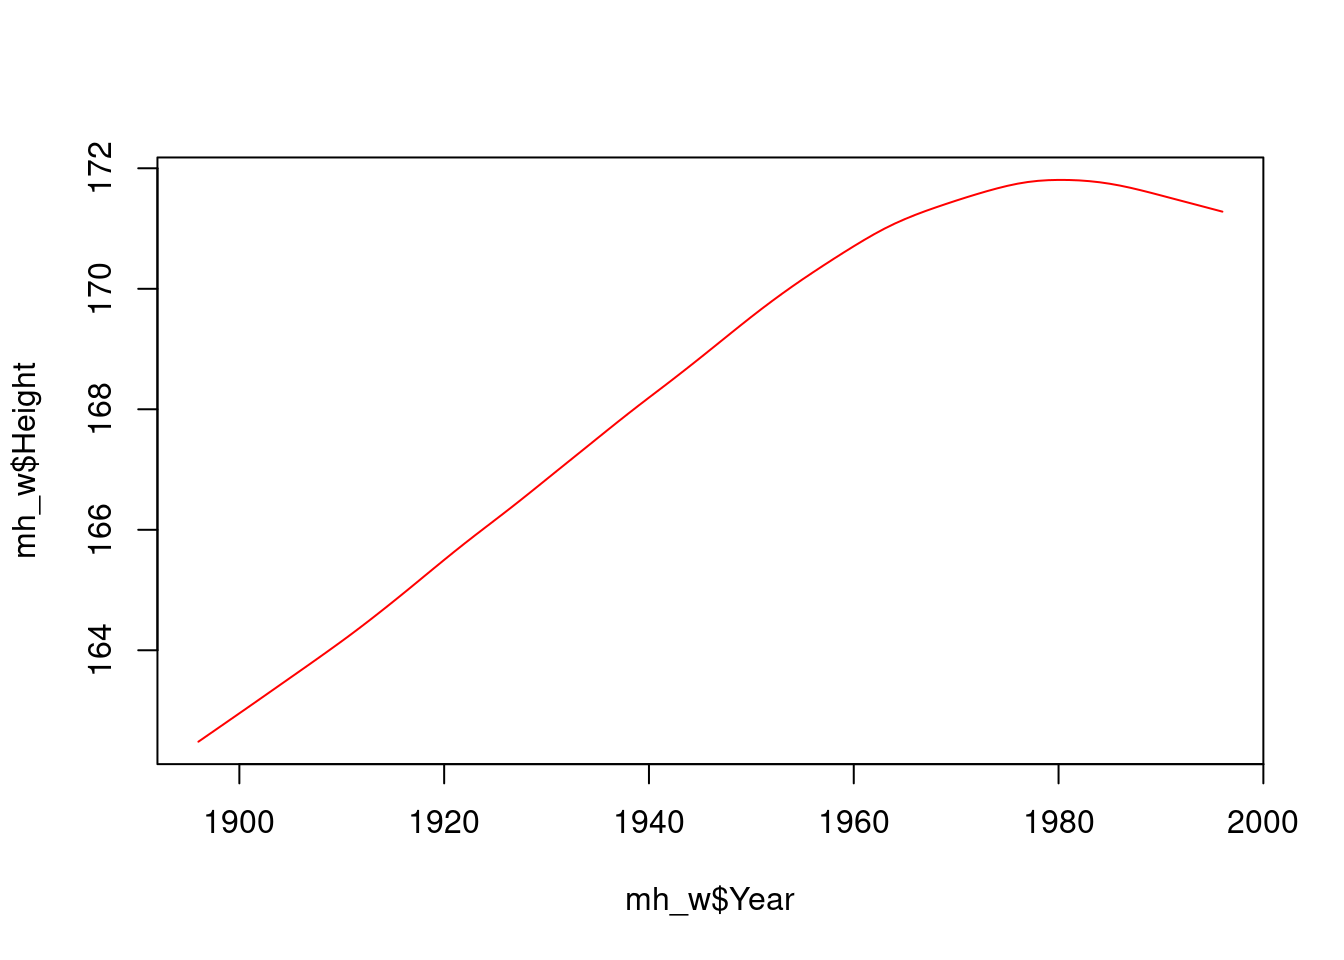
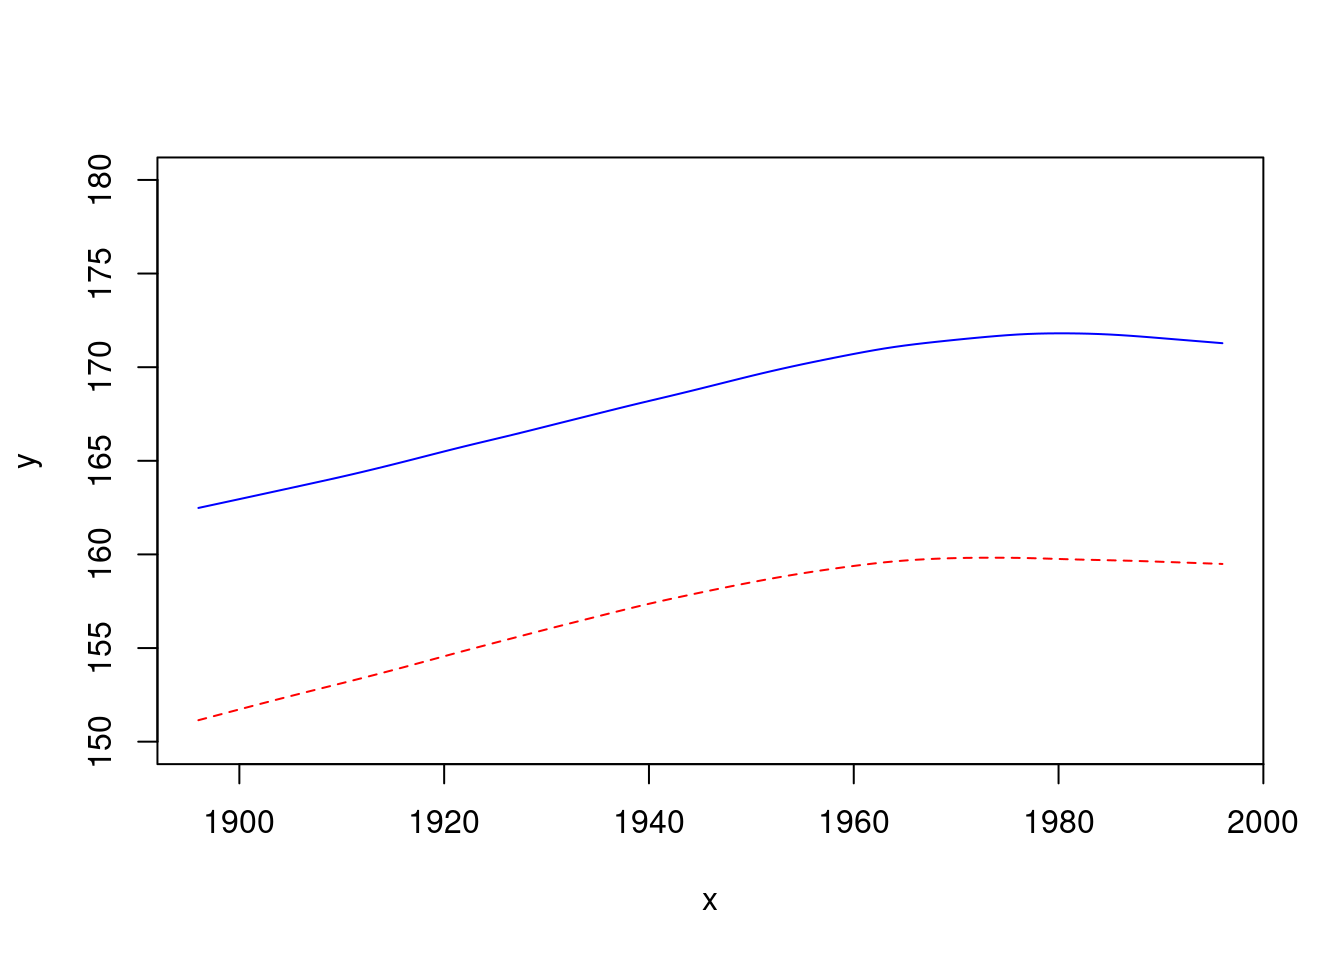
last figure fixed

diff --git a/_book/summarizing_and_communicating_lots_of_data.html b/_book/summarizing_and_communicating_lots_of_data.html
@@ -1955,8 +1955,16 @@ $Female
 <span id="cb161-4"><a href="#cb161-4" aria-hidden="true" tabindex="-1"></a>mh_w <span class="ot">&lt;-</span> height_men[height_men<span class="sc">$</span>Entity <span class="sc">==</span> <span class="st">"World"</span>, ]</span>
 <span id="cb161-5"><a href="#cb161-5" aria-hidden="true" tabindex="-1"></a>fh_w <span class="ot">&lt;-</span> height_women[height_women<span class="sc">$</span>Entity <span class="sc">==</span> <span class="st">"World"</span>, ]</span>
 <span id="cb161-6"><a href="#cb161-6" aria-hidden="true" tabindex="-1"></a></span>
-<span id="cb161-7"><a href="#cb161-7" aria-hidden="true" tabindex="-1"></a><span class="fu">plot</span>(mh_w<span class="sc">$</span>Year,  mh_w<span class="sc">$</span>Height, <span class="at">type =</span> <span class="st">"l"</span>, <span class="at">col =</span> <span class="st">"red"</span>, <span class="at">lty =</span> <span class="dv">1</span>)</span>
-<span id="cb161-8"><a href="#cb161-8" aria-hidden="true" tabindex="-1"></a><span class="fu">lines</span>(mh_w<span class="sc">$</span>Year, fh_w<span class="sc">$</span>Height, <span class="at">type =</span> <span class="st">"l"</span>,  <span class="at">col =</span> <span class="st">"blue"</span>, <span class="at">lty =</span> <span class="dv">2</span>)</span></code><button title="Copy to Clipboard" class="code-copy-button"><i class="bi"></i></button></pre></div>
+<span id="cb161-7"><a href="#cb161-7" aria-hidden="true" tabindex="-1"></a>x <span class="ot">&lt;-</span> mh_w<span class="sc">$</span>Year</span>
+<span id="cb161-8"><a href="#cb161-8" aria-hidden="true" tabindex="-1"></a>y1 <span class="ot">&lt;-</span> mh_w<span class="sc">$</span>Height</span>
+<span id="cb161-9"><a href="#cb161-9" aria-hidden="true" tabindex="-1"></a>y2 <span class="ot">&lt;-</span> fh_w<span class="sc">$</span>Height</span>
+<span id="cb161-10"><a href="#cb161-10" aria-hidden="true" tabindex="-1"></a></span>
+<span id="cb161-11"><a href="#cb161-11" aria-hidden="true" tabindex="-1"></a><span class="co">#plot the first data series using plot()</span></span>
+<span id="cb161-12"><a href="#cb161-12" aria-hidden="true" tabindex="-1"></a><span class="fu">plot</span>(x, y1, <span class="at">type=</span><span class="st">"l"</span>, <span class="at">col=</span><span class="st">"blue"</span>, <span class="at">ylab=</span><span class="st">"y"</span>, <span class="at">lty=</span><span class="dv">1</span>, <span class="at">ylim=</span><span class="fu">range</span>( <span class="fu">c</span>(<span class="dv">150</span>, <span class="dv">180</span>) ) )</span>
+<span id="cb161-13"><a href="#cb161-13" aria-hidden="true" tabindex="-1"></a></span>
+<span id="cb161-14"><a href="#cb161-14" aria-hidden="true" tabindex="-1"></a><span class="co">#add second data series to the same chart using points() and lines()</span></span>
+<span id="cb161-15"><a href="#cb161-15" aria-hidden="true" tabindex="-1"></a></span>
+<span id="cb161-16"><a href="#cb161-16" aria-hidden="true" tabindex="-1"></a><span class="fu">lines</span>(x, y2, <span class="at">type =</span> <span class="st">"l"</span>, <span class="at">col=</span><span class="st">"red"</span>,<span class="at">lty=</span><span class="dv">2</span>)</span></code><button title="Copy to Clipboard" class="code-copy-button"><i class="bi"></i></button></pre></div>
 </details>
 <div class="cell-output-display">
 <p><img src="summarizing_and_communicating_lots_of_data_files/figure-html/unnamed-chunk-88-1.png" class="img-fluid" width="672"></p>
